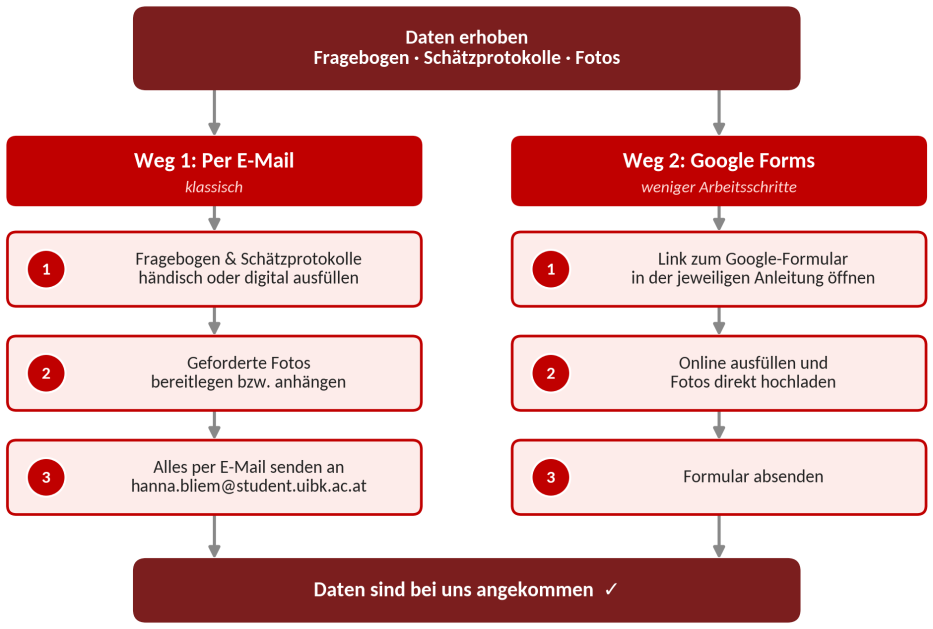
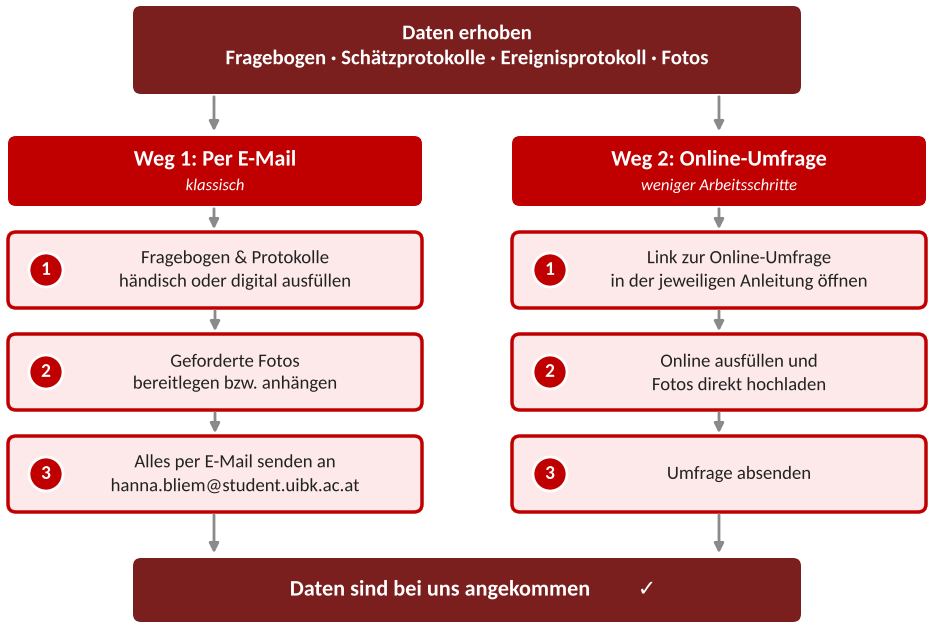
Add files via upload

diff --git a/formulare.html b/formulare.html
@@ -11,7 +11,7 @@
 <header class="top"><div class="bar"><a class="home" href="index.html">⌂ Übersicht</a><span class="t">Formulare</span></div>
 <nav class="tabs" aria-label="Seiten"><a href="index.html">⌂</a><a href="allgemein.html">1 Allgemein</a><a href="fragebogen.html">2 Fragebogen</a><a href="sensoren.html">3 Sensoren</a><a href="populationsgroesse.html">4 Population</a><a href="formulare.html" class="on" aria-current="page">📝 Formulare</a></nav></header>
 <main>
-<h1>Formulare &amp; Links</h1><p class="sub">Alles an einem Ort: zum Ausfüllen online oder zum Ausdrucken</p><p>Hier finden Sie alle Formulare des Versuchs gesammelt. Sie können sie direkt online über Google Forms ausfüllen oder als PDF ausdrucken und per E-Mail an <a href="mailto:hanna.bliem@student.uibk.ac.at">hanna.bliem@student.uibk.ac.at</a> senden.</p><div class="box"><strong>Wichtig</strong>Ihren <b>Teilnehmercode</b> (drei Großbuchstaben, aus den Anfangsbuchstaben Ihres Standorts) brauchen Sie bei jedem Formular. Bitte halten Sie ihn bereit.</div><nav class="toc"><strong>Inhalt dieses Dokuments</strong><ol><li><a href="#forms">Formulare in der Reihenfolge des Versuchs</a></li><li><a href="#apps">GPS-App</a></li><li><a href="#kontakt">Kontakt</a></li></ol></nav><h2 id="forms">Formulare in der Reihenfolge des Versuchs</h2><section class="fcard g"><span class="when">Vor dem Einwintern</span><h3>Fragebogen zum Projektstart</h3><p>Themenblöcke Bewirtschaftung, Überwinterung und Standort. Das Ausfüllen dauert rund 30 Minuten. Bitte vorher die GPS-App nutzen und den Screenshot bereithalten.</p><p><a class="btn" href="https://umfrage.uibk.ac.at/limesurvey/allgemein/365494?lang=de" target="_blank" rel="noopener">Online ausfüllen</a></p><p><a class="dl" href="downloads/Fragebogen.pdf">⬇ PDF zum Ausdrucken</a></p><p class="more"><a href="fragebogen.html#start">Anleitung zum Fragebogen →</a></p></section><section class="fcard a"><span class="when">Beim Einwintern, im Winter (Januar / Februar) und beim Auswintern</span><h3>Schätzprotokoll Populationsgröße</h3><p>Für die Liebefelder Schätzmethode (Achtel pro Wabenseite). Die Fotos der Frame-Top-Clusterzählung können Sie im Google-Formular direkt hochladen.</p><p><a class="btn" href="https://forms.gle/62JAq6ywwJx73rkz9" target="_blank" rel="noopener">Online ausfüllen (Google Forms)</a></p><p><a class="dl" href="downloads/Schaetzprotokoll_Wabenseiten.pdf">⬇ PDF zum Ausdrucken</a></p><p class="more"><a href="populationsgroesse.html#zeit">Anleitung Populationsgröße schätzen →</a></p></section><section class="fcard g"><span class="when">Während des Winters, bei jedem Eingriff</span><h3>Ereignisprotokoll</h3><p>Eingriffe und besondere Ereignisse eintragen, z. B. Kontrolle, Varroabehandlung, Fütterung oder ein verstorbenes Volk. Auch kleine Eingriffe bitte eintragen, für beide Beuten.</p><p><a class="btn" href="https://forms.gle/uDWkMCHtLCLm7BEV8" target="_blank" rel="noopener">Online ausfüllen (Google Forms)</a></p><p><a class="dl" href="downloads/Ereignisprotokoll.pdf">⬇ PDF zum Ausdrucken</a></p><p class="more"><a href="fragebogen.html#ereignis">Anleitung zum Ereignisprotokoll →</a></p></section><section class="fcard g"><span class="when">Nach Projektende</span><h3>Evaluationsfragebogen</h3><p>Ihr Feedback zum Versuch: Ablauf, Verständlichkeit der Anleitungen, Aufwand und weitere Teilnahme.</p><p><a class="btn" href="https://forms.gle/bRKPK3yJ1myFSESB8" target="_blank" rel="noopener">Online ausfüllen (Google Forms)</a></p><p><span class="nopdf">PDF zum Ausdrucken: siehe Ordner <em>Formular</em></span></p><p class="more"><a href="fragebogen.html#evaluation">Anleitung zum Evaluationsfragebogen →</a></p></section><h2 id="apps">GPS-App für den Standort</h2>
+<h1>Formulare &amp; Links</h1><p class="sub">Alles an einem Ort: zum Ausfüllen online oder zum Ausdrucken</p><p>Hier finden Sie alle Formulare des Versuchs gesammelt. Sie können sie direkt online ausfüllen oder als PDF ausdrucken und per E-Mail an <a href="mailto:hanna.bliem@student.uibk.ac.at">hanna.bliem@student.uibk.ac.at</a> senden.</p><div class="box"><strong>Wichtig</strong>Ihren <b>Teilnehmercode</b> (drei Großbuchstaben, aus den Anfangsbuchstaben Ihres Standorts) brauchen Sie bei jedem Formular. Bitte halten Sie ihn bereit.</div><nav class="toc"><strong>Inhalt dieses Dokuments</strong><ol><li><a href="#forms">Formulare in der Reihenfolge des Versuchs</a></li><li><a href="#apps">GPS-App</a></li><li><a href="#kontakt">Kontakt</a></li></ol></nav><h2 id="forms">Formulare in der Reihenfolge des Versuchs</h2><section class="fcard g"><span class="when">Vor dem Einwintern</span><h3>Fragebogen zum Projektstart</h3><p>Themenblöcke Bewirtschaftung, Überwinterung und Standort. Das Ausfüllen dauert rund 30 Minuten. Bitte vorher die GPS-App nutzen und den Screenshot bereithalten.</p><p><a class="btn" href="https://umfrage.uibk.ac.at/limesurvey/allgemein/365494?lang=de" target="_blank" rel="noopener">Online ausfüllen</a></p><p><a class="dl" href="downloads/Fragebogen.pdf">⬇ PDF zum Ausdrucken</a></p><p class="more"><a href="fragebogen.html#start">Anleitung zum Fragebogen →</a></p></section><section class="fcard a"><span class="when">Beim Einwintern, im Winter (Januar / Februar) und beim Auswintern</span><h3>Schätzprotokoll Populationsgröße</h3><p>Für die Liebefelder Schätzmethode (Achtel pro Wabenseite). Die Fotos der Frame-Top-Clusterzählung können Sie in der Online-Umfrage direkt hochladen.</p><p><a class="btn" href="https://umfrage.uibk.ac.at/limesurvey/allgemein/776319?lang=de" target="_blank" rel="noopener">Online ausfüllen</a></p><p><a class="dl" href="downloads/Schaetzprotokoll_Wabenseiten.pdf">⬇ PDF zum Ausdrucken</a></p><p class="more"><a href="populationsgroesse.html#zeit">Anleitung Populationsgröße schätzen →</a></p></section><section class="fcard g"><span class="when">Während des Winters, bei jedem Eingriff</span><h3>Ereignisprotokoll</h3><p>Eingriffe und besondere Ereignisse eintragen, z. B. Kontrolle, Varroabehandlung, Fütterung oder ein verstorbenes Volk. Auch kleine Eingriffe bitte eintragen, für beide Beuten.</p><p><a class="btn" href="https://umfrage.uibk.ac.at/limesurvey/allgemein/634938?lang=de" target="_blank" rel="noopener">Online ausfüllen</a></p><p><a class="dl" href="downloads/Ereignisprotokoll.pdf">⬇ PDF zum Ausdrucken</a></p><p class="more"><a href="fragebogen.html#ereignis">Anleitung zum Ereignisprotokoll →</a></p></section><section class="fcard g"><span class="when">Nach Projektende</span><h3>Evaluationsfragebogen</h3><p>Ihr Feedback zum Versuch: Ablauf, Verständlichkeit der Anleitungen, Aufwand und weitere Teilnahme.</p><p><a class="btn" href="https://forms.gle/bRKPK3yJ1myFSESB8" target="_blank" rel="noopener">Online ausfüllen</a></p><p><span class="nopdf">PDF zum Ausdrucken: siehe Ordner <em>Formular</em></span></p><p class="more"><a href="fragebogen.html#evaluation">Anleitung zum Evaluationsfragebogen →</a></p></section><h2 id="apps">GPS-App für den Standort</h2>
 <p>Für den Fragebogen zum Projektstart erfassen Sie den Standort Ihres Bienenstands mit einer kostenlosen GPS-App. Die Schritte stehen in der <a href="fragebogen.html#gps">Anleitung Fragebogen, Kapitel 2</a>.</p>
 <p><a class="dl" href="https://play.google.com/store/apps/details?id=com.freemium.android.apps.gps.coordinates&amp;hl=de_AT" rel="noopener">Android: App im Play Store</a> <a class="dl" href="https://apps.apple.com/at/app/gps-koordinaten-standort/id1581966514" rel="noopener">iPhone: App im App Store</a></p>
 <h2 id="kontakt">Kontakt</h2><div class="box"><strong>Bei Fragen wenden Sie sich gerne an:</strong>Hanna Bliem<br><a href="mailto:hanna.bliem@student.uibk.ac.at">hanna.bliem@student.uibk.ac.at</a></div>

diff --git a/fragebogen.html b/fragebogen.html
@@ -19,9 +19,7 @@
 <h3>Wo finde ich den Fragebogen?</h3>
 <ul><li><strong>Online-Fragebogen:</strong> Hier kommen Sie zum Fragebogen: <a class="btn" href="https://umfrage.uibk.ac.at/limesurvey/allgemein/365494?lang=de" target="_blank" rel="noopener">Fragebogen öffnen</a></li>
 <li><strong>Ausdrucken bzw. händisch ausfüllen:</strong> Wenn Sie diese Methode bevorzugen, laden Sie den Fragebogen hier herunter: <a class="dl" href="downloads/Fragebogen.pdf">⬇ Fragebogen (PDF)</a></li></ul>
-<div class="embed"><button class="btn" id="openEmbed" type="button" data-src="https://umfrage.uibk.ac.at/limesurvey/allgemein/365494?lang=de">Fragebogen direkt hier auf der Seite ausfüllen</button>
-<div id="embedBox" hidden><iframe title="Fragebogen zum Projektstart" allow="geolocation"></iframe>
-<p class="hint">Wird nichts angezeigt oder lässt sich der Fragebogen am Handy schlecht bedienen? <a href="https://umfrage.uibk.ac.at/limesurvey/allgemein/365494?lang=de" target="_blank" rel="noopener">Fragebogen in einem neuen Tab öffnen</a>.</p></div></div>
+<div class="embed"><button class="btn eb" type="button" data-src="https://umfrage.uibk.ac.at/limesurvey/allgemein/365494?lang=de" data-open="Fragebogen direkt hier auf der Seite ausfüllen" data-close="Fragebogen ausblenden">Fragebogen direkt hier auf der Seite ausfüllen</button><div class="embox" hidden><iframe title="Fragebogen zum Projektstart" allow="geolocation"></iframe><p class="hint">Wird nichts angezeigt oder lässt sich die Umfrage am Handy schlecht bedienen? <a href="https://umfrage.uibk.ac.at/limesurvey/allgemein/365494?lang=de" target="_blank" rel="noopener">Fragebogen in einem neuen Tab öffnen</a>.</p></div></div>
 <h2 id="gps">2. Installation und Anwendung der GPS-App</h2>
 <p>Mit einer kostenlosen GPS-App erfassen Sie den genauen Standort Ihres Bienenstands. Das dauert nur wenige Minuten. Die Schritte sind für Android-Handys und iPhones gleich, nur Installation und Standortfreigabe unterscheiden sich.</p>
 <h3>Android-Handy</h3>
@@ -39,18 +37,19 @@
 <div class="box"><strong>Tipp</strong>Bleiben Sie mit freier Sicht zum Himmel stehen und warten Sie in Ruhe, bis die Genauigkeit 5 m oder weniger anzeigt. Erst dann den Screenshot aufnehmen.</div>
 <h2 id="ereignis">3. Ereignisprotokoll</h2>
 <p>Während des laufenden Projekts müssen alle Eingriffe und größeren Ereignisse dokumentiert werden. Solche Ereignisse können die Temperatur- und Feuchteverläufe beeinflussen und helfen uns, die Daten richtig zu deuten.</p>
-<ol class="steps three"><li><h4>Wann</h4><p>Immer wenn Sie in ein Volk eingreifen oder etwas Besonderes passiert, möglichst zeitnah.</p></li><li><h4>Was eintragen</h4><p>Datum, Teilnehmercode, Beute und Art des Ereignisses, z. B. Varroabehandlung, Öffnen der Beute oder ein verstorbenes Volk.</p></li><li><h4>Übermitteln</h4><p>Per Google Forms absenden oder das Protokoll ausfüllen und per E-Mail schicken.</p></li></ol>
+<ol class="steps three"><li><h4>Wann</h4><p>Immer wenn Sie in ein Volk eingreifen oder etwas Besonderes passiert, möglichst zeitnah.</p></li><li><h4>Was eintragen</h4><p>Datum, Teilnehmercode, Beute und Art des Ereignisses, z. B. Varroabehandlung, Öffnen der Beute oder ein verstorbenes Volk.</p></li><li><h4>Übermitteln</h4><p>Online absenden oder das Protokoll ausfüllen und per E-Mail schicken.</p></li></ol>
 <div class="box"><strong>Wichtig!</strong>Bitte tragen Sie auch kleine Eingriffe ein. Bei beiden Beuten (isoliert und konventionell) gilt dieselbe Dokumentation.</div>
 <h3>Wo finde ich das Ereignisprotokoll?</h3>
-<ul><li><strong>Google Forms:</strong> Hier kommen Sie zum Ereignisprotokoll: <a class="btn" href="https://forms.gle/uDWkMCHtLCLm7BEV8" rel="noopener">Ereignisprotokoll öffnen</a></li>
+<ul><li><strong>Online-Umfrage:</strong> Hier kommen Sie zum Ereignisprotokoll: <a class="btn" href="https://umfrage.uibk.ac.at/limesurvey/allgemein/634938?lang=de" target="_blank" rel="noopener">Ereignisprotokoll öffnen</a></li>
 <li><strong>Ausdrucken bzw. händisch ausfüllen:</strong> Wenn Sie diese Methode bevorzugen, laden Sie das Ereignisprotokoll hier herunter: <a class="dl" href="downloads/Ereignisprotokoll.pdf">⬇ Ereignisprotokoll (PDF)</a> Senden Sie es anschließend per E-Mail an <a href="mailto:hanna.bliem@student.uibk.ac.at">hanna.bliem@student.uibk.ac.at</a>.</li></ul>
+<div class="embed"><button class="btn eb" type="button" data-src="https://umfrage.uibk.ac.at/limesurvey/allgemein/634938?lang=de" data-open="Ereignisprotokoll direkt hier auf der Seite ausfüllen" data-close="Ereignisprotokoll ausblenden">Ereignisprotokoll direkt hier auf der Seite ausfüllen</button><div class="embox" hidden><iframe title="Ereignisprotokoll" allow="geolocation"></iframe><p class="hint">Wird nichts angezeigt oder lässt sich die Umfrage am Handy schlecht bedienen? <a href="https://umfrage.uibk.ac.at/limesurvey/allgemein/634938?lang=de" target="_blank" rel="noopener">Ereignisprotokoll in einem neuen Tab öffnen</a>.</p></div></div>
 <h2 id="evaluation">4. Evaluationsfragebogen zum Projektende</h2>
 <p>Am Ende des Projekts bitten wir Sie um Ihr Feedback: Wie haben Sie den Versuch erlebt, und wie verständlich waren die Unterlagen? So können wir das nächste Projekt verbessern und Ihre Erfahrung einbeziehen.</p>
-<ol class="steps three"><li><h4>Zeitpunkt</h4><p>Nach dem Auswintern und der Rücksendung der Sensoren.</p></li><li><h4>Fragebogen</h4><p>Fragen zu Ablauf, Verständlichkeit der Anleitungen, Aufwand und zu Ihrer weiteren Teilnahme beantworten.</p></li><li><h4>Übermitteln</h4><p>Per Google Forms absenden oder per E-Mail schicken.</p></li></ol>
+<ol class="steps three"><li><h4>Zeitpunkt</h4><p>Nach dem Auswintern und der Rücksendung der Sensoren.</p></li><li><h4>Fragebogen</h4><p>Fragen zu Ablauf, Verständlichkeit der Anleitungen, Aufwand und zu Ihrer weiteren Teilnahme beantworten.</p></li><li><h4>Übermitteln</h4><p>Online absenden oder per E-Mail schicken.</p></li></ol>
 <p>Der Evaluationsfragebogen funktioniert genauso wie der Fragebogen zum Projektstart. Das Ausfüllen dauert rund xx Minuten.</p>
 <div class="box"><strong>Ihre Meinung zählt</strong>Es gibt keine richtigen oder falschen Antworten. Auch Kritik und Verbesserungsvorschläge helfen uns sehr weiter.</div>
 <h3>Wo finde ich den Evaluationsfragebogen?</h3>
-<ul><li><strong>Google Forms:</strong> Hier kommen Sie zum Evaluationsfragebogen: <a class="btn" href="https://forms.gle/bRKPK3yJ1myFSESB8" rel="noopener">Evaluationsfragebogen öffnen</a></li>
+<ul><li><strong>Online-Fragebogen:</strong> Hier kommen Sie zum Evaluationsfragebogen: <a class="btn" href="https://forms.gle/bRKPK3yJ1myFSESB8" target="_blank" rel="noopener">Evaluationsfragebogen öffnen</a></li>
 <li><strong>Ausdrucken bzw. händisch ausfüllen:</strong> Wenn Sie diese Methode bevorzugen, finden Sie den Evaluationsfragebogen im Ordner <em>Formular</em>.</li></ul>
 <p style="text-align:center"><strong style="color:var(--accent)">Vielen Dank für Ihre Mithilfe!</strong></p>
 <div class="pager"><a class="sec" href="allgemein.html">← Allgemeine Übersicht</a><a href="sensoren.html">Sensoren & Abdeckfolie →</a></div>

diff --git a/populationsgroesse.html b/populationsgroesse.html
@@ -18,10 +18,11 @@
 <h3>Datenübermittlung</h3>
 <p>Die erhobenen Daten können Sie uns auf zwei Wegen übermitteln:</p>
 <ul><li>Händisch in das Formular „Schätzprotokoll“ (<a href="downloads/Schaetzprotokoll_Wabenseiten.pdf">PDF zum Ausdrucken</a>) und anschließend per E-Mail an <a href="mailto:hanna.bliem@student.uibk.ac.at">hanna.bliem@student.uibk.ac.at</a></li>
-<li>über das Google-Formular (wie beim Fragebogen): <a class="btn" href="https://forms.gle/62JAq6ywwJx73rkz9" rel="noopener">Google-Formular öffnen</a></li></ul><h2 id="vorb">2. Vorbereitung</h2>
+<li>über die Online-Umfrage (wie beim Fragebogen): <a class="btn" href="https://umfrage.uibk.ac.at/limesurvey/allgemein/776319?lang=de" target="_blank" rel="noopener">Online-Umfrage öffnen</a></li></ul>
+<div class="embed"><button class="btn eb" type="button" data-src="https://umfrage.uibk.ac.at/limesurvey/allgemein/776319?lang=de" data-open="Schätzprotokoll direkt hier auf der Seite ausfüllen" data-close="Schätzprotokoll ausblenden">Schätzprotokoll direkt hier auf der Seite ausfüllen</button><div class="embox" hidden><iframe title="Schätzprotokoll Populationsgröße" allow="geolocation"></iframe><p class="hint">Wird nichts angezeigt oder lässt sich die Umfrage am Handy schlecht bedienen? <a href="https://umfrage.uibk.ac.at/limesurvey/allgemein/776319?lang=de" target="_blank" rel="noopener">Schätzprotokoll in einem neuen Tab öffnen</a>.</p></div></div><h2 id="vorb">2. Vorbereitung</h2>
 <h3>Liebefelder Schätzmethode</h3>
 <p><strong>Material zusammenstellen:</strong></p>
-<ul><li>Leeres Rähmchen im verwendeten Wabenmaß</li><li>Vier Gummibänder oder Schnüre</li><li>Schätzprotokoll (liegt in den Anlagen bei oder steht im Google-Formular zur Verfügung, Link siehe <a href="#zeit">Kapitel 1</a>). <a href="downloads/Schaetzprotokoll_Wabenseiten.pdf">Schätzprotokoll als PDF</a></li><li>Für den Magazinablauf: zwei Leerzargen (im Herbst: die mit Sensoren präparierten Zargen!), passender Deckel, Trennfolien</li></ul>
+<ul><li>Leeres Rähmchen im verwendeten Wabenmaß</li><li>Vier Gummibänder oder Schnüre</li><li>Schätzprotokoll (liegt in den Anlagen bei oder steht in der Online-Umfrage zur Verfügung, Link siehe <a href="#zeit">Kapitel 1</a>). <a href="downloads/Schaetzprotokoll_Wabenseiten.pdf">Schätzprotokoll als PDF</a></li><li>Für den Magazinablauf: zwei Leerzargen (im Herbst: die mit Sensoren präparierten Zargen!), passender Deckel, Trennfolien</li></ul>
 <p><strong>Schätzrahmen bauen</strong></p>
 <ol class="steps">
 <li><h4>Rähmchen teilen</h4><p>Rähmchen in acht gleich große Felder teilen: Ein Band halbiert die Höhe, drei weitere Bänder vierteln die Breite (siehe Abbildung).</p><figure class="imgbg "><img src="img/schaetzrahmen-1.png" alt="Rähmchen mit einem horizontalen und drei vertikalen Bändern, acht Felder" ></figure></li>
@@ -39,7 +40,7 @@
 <ol class="steps">
 <li><h4>Maßband und Münze</h4><p>Deckel der Beute öffnen und Maßband/Meterstab an die obere Kante legen. Bei isolierten Bienenbeuten zusätzlich die Münze an die Kante legen (so lassen sich die beiden Beutentypen unterscheiden).</p><figure class="imgbg "><img src="img/cluster-1.png" alt="Beute von oben mit Maßband an der Kante und Münze" ></figure></li>
 <li><h4>Foto aus 80 cm</h4><p>Kamera 80 cm über die Beute halten (bitte genau ausmessen). Darauf achten, dass Kamera/Smartphone möglichst gerade ist und die Wasserwaage der Kamera-App richtig ausgerichtet ist.</p><figure class="imgbg "><img src="img/cluster-2.png" alt="Kamera 80 cm über der Beute" ></figure></li>
-<li><h4>Kontrollieren und senden</h4><p>Kontrollieren, ob das Foto gelungen ist, und anschließend per E-Mail absenden oder im Google-Formular hochladen.</p><figure class="imgbg "><img src="img/cluster-3.png" alt="Smartphone mit Senden-Symbol" ></figure></li></ol>
+<li><h4>Kontrollieren und senden</h4><p>Kontrollieren, ob das Foto gelungen ist, und anschließend per E-Mail absenden oder in der Online-Umfrage hochladen.</p><figure class="imgbg "><img src="img/cluster-3.png" alt="Smartphone mit Senden-Symbol" ></figure></li></ol>
 <h3>Liebefelder Schätzmethode</h3>
 <p><strong>Grundsätzliche Erklärung:</strong> Mithilfe des vorher angefertigten Schätzrahmens wird bestimmt, wie viele Bienen auf einer Wabe sitzen. Dabei wird der Schätzrahmen über die Wabe gehalten und notiert, wie viele der Achtel vollständig durch Bienen besetzt sind. Es wird also nicht die tatsächliche Anzahl der Bienen geschätzt, sondern die Anzahl der vollbesetzten Felder.</p>
 <div class="box"><strong>Tipps zum Schätzen</strong><ul><li>Stellen Sie sich locker verteilte Bienen dicht nebeneinander vor und notieren Sie, wie viele Achtel sie dann füllen würden. Zählen Sie nicht einfach jedes Feld, in dem irgendeine Biene sitzt. Beispiele dazu: siehe <a href="#bsp">Kapitel 4</a>.</li><li>Auch halbe Felder sind erlaubt und werden zusammengerechnet.</li><li>Mehrere Schichten: Fläche und Schichtzahl getrennt schätzen (z. B. 2 Achtel × 3 Schichten = 6 Achtel). Diese Korrektur gilt nur für die jeweilige Gruppe.</li></ul></div>

diff --git a/allgemein.html b/allgemein.html
@@ -32,7 +32,7 @@
 <h2 id="daten">3. Datenübermittlung</h2>
 <p>Sie können selbst wählen, auf welchem Weg Sie uns die Daten übermitteln:</p>
 <ul><li><strong>Per E-Mail:</strong> Sie füllen den Fragebogen und die Schätzprotokolle händisch oder digital aus und senden sie uns zusammen mit den geforderten Fotos per E-Mail an <a href="mailto:hanna.bliem@student.uibk.ac.at">hanna.bliem@student.uibk.ac.at</a>.</li>
-<li><strong>Online:</strong> Fragebogen und Schätzprotokolle können Sie direkt online ausfüllen. Die passenden Formulare sind in den jeweiligen Anleitungen verlinkt, auch die Fotos lassen sich dort direkt hochladen. So möchten wir Ihnen einige Arbeitsschritte ersparen. <a href="formulare.html">Alle Formular-Links finden Sie gesammelt im Reiter „Formulare“.</a></li></ul><figure class="imgbg "><img src="img/datenwege.png" alt="Die zwei Wege der Datenübermittlung: per E-Mail oder über Google Forms"  class="zoom" data-full="img/datenwege.png"><figcaption>Abbildung 2: Die zwei Wege der Datenübermittlung</figcaption></figure><div class="box"><strong>Wichtiger Hinweis!</strong>Von uns erhalten Sie einen Teilnehmercode, der aus drei Großbuchstaben besteht und sich aus den Anfangsbuchstaben Ihres Standorts zusammensetzt. Bitte bewahren Sie diesen Code gut auf und geben Sie ihn immer an, wenn danach gefragt wird, beispielsweise beim Ausfüllen des Fragebogens oder des Schätzprotokolls.</div>
+<li><strong>Online:</strong> Fragebogen und Schätzprotokolle können Sie direkt online ausfüllen. Die passenden Formulare sind in den jeweiligen Anleitungen verlinkt, auch die Fotos lassen sich dort direkt hochladen. So möchten wir Ihnen einige Arbeitsschritte ersparen. <a href="formulare.html">Alle Formular-Links finden Sie gesammelt im Reiter „Formulare“.</a></li></ul><figure class="imgbg "><img src="img/datenwege.png" alt="Die zwei Wege der Datenübermittlung: per E-Mail oder über die Online-Umfrage"  class="zoom" data-full="img/datenwege.png"><figcaption>Abbildung 2: Die zwei Wege der Datenübermittlung</figcaption></figure><div class="box"><strong>Wichtiger Hinweis!</strong>Von uns erhalten Sie einen Teilnehmercode, der aus drei Großbuchstaben besteht und sich aus den Anfangsbuchstaben Ihres Standorts zusammensetzt. Bitte bewahren Sie diesen Code gut auf und geben Sie ihn immer an, wenn danach gefragt wird, beispielsweise beim Ausfüllen des Fragebogens oder des Schätzprotokolls.</div>
 <h2 id="material">4. Material</h2>
 <p>Hier nochmals eine Checkliste der Materialien, die wir Ihnen zur Verfügung stellen, sowie der Dinge, die Sie selbst bereithalten:</p>
 <div class="two"><div class="col"><h3>Von uns zur Verfügung gestellt</h3><ul><li>Isolierte Testzarge</li><li>8 Sensoren</li><li>Klebeband für die Anbringung der Sensoren</li><li>Schutzhütte für die Sensoren im Außenbereich</li><li>Kreislibelle</li><li>2 Abdeckfolien (1 pro Beute)</li></ul></div>

diff --git a/sw.js b/sw.js
@@ -1,4 +1,4 @@
-const CACHE='imker-v4';
+const CACHE='imker-v5';
 const FILES=["./", "index.html", "manifest.webmanifest", "assets/style.css", "assets/app.js", "assets/icon-192.png", "assets/icon-512.png", "allgemein.html", "fragebogen.html", "sensoren.html", "populationsgroesse.html", "formulare.html", "img/ablauf-1.png", "img/ablauf-2.png", "img/ablauf-3.png", "img/ablauf-4.png", "img/ablauf-5.png", "img/beispiel-1a.jpg", "img/beispiel-2a.jpg", "img/beispiel-3a.jpg", "img/beispiel-6a.jpg", "img/cluster-1.png", "img/cluster-2.png", "img/cluster-3.png", "img/datenwege.png", "img/folie-1.jpg", "img/folie-2.jpg", "img/folie-3.jpg", "img/folie-4.jpg", "img/gps-screenshot.png", "img/kreislibelle.png", "img/schaetzrahmen-1.png", "img/schaetzrahmen-2.png", "img/sens-befestigung.png", "img/sens-d.jpg", "img/sens-positionen.png", "img/sensor-doku.png", "img/sensor-start.png", "img/sensor-stop.png", "img/vogelhaus-1.png", "img/vogelhaus-2.png", "img/vogelhaus-3.png", "img/vogelhaus-4.jpg", "img/zeitplan.png", "downloads/1_Anleitung_Allgemein.pdf", "downloads/2_Anleitung_Fragebogen.pdf", "downloads/3_Anleitung_Sensoren.pdf", "downloads/4_Anleitung_Populationsgroesse_schaetzen.pdf", "downloads/Ereignisprotokoll.pdf", "downloads/Fragebogen.pdf", "downloads/Schaetzprotokoll_Wabenseiten.pdf"];
 self.addEventListener('install',e=>{e.waitUntil(caches.open(CACHE).then(c=>Promise.all(FILES.map(f=>c.add(f).catch(()=>{})))).then(()=>self.skipWaiting()))});
 self.addEventListener('activate',e=>{e.waitUntil(caches.keys().then(k=>Promise.all(k.filter(x=>x!==CACHE).map(x=>caches.delete(x)))).then(()=>self.clients.claim()))});

diff --git a/index.html b/index.html
@@ -13,7 +13,7 @@
 <a class="hero g" href="fragebogen.html"><span class="no">Vor dem Einwintern</span><h2>2 · Fragebogen</h2><p>Fragebogen, GPS-App und Evaluation am Ende</p></a>
 <a class="hero b" href="sensoren.html"><span class="no">Vor dem Einwintern</span><h2>3 · Sensoren &amp; Abdeckfolie</h2><p>Sensoren einbauen, starten, ausschalten; Folie einlegen</p></a>
 <a class="hero a" href="populationsgroesse.html"><span class="no">Einwintern, Winter, Auswintern</span><h2>4 · Populationsgröße schätzen</h2><p>Liebefelder Schätzmethode und Frame-Top-Clusterzählung</p></a>
-<a class="hero p" href="formulare.html"><span class="no">Zum Ausfüllen</span><h2>📝 Formulare &amp; Links</h2><p>Alle Google-Forms-Links und PDF-Formulare auf einen Blick</p></a>
+<a class="hero p" href="formulare.html"><span class="no">Zum Ausfüllen</span><h2>📝 Formulare &amp; Links</h2><p>Alle Online-Umfragen und PDF-Formulare auf einen Blick</p></a>
 </div>
 <h2 id="downloads">Downloads</h2>
 <p>Formulare zum Ausdrucken:</p><p><a class="dl" href="downloads/Fragebogen.pdf">⬇ Fragebogen (zum Ausdrucken)</a><a class="dl" href="downloads/Ereignisprotokoll.pdf">⬇ Ereignisprotokoll</a><a class="dl" href="downloads/Schaetzprotokoll_Wabenseiten.pdf">⬇ Schätzprotokoll Wabenseiten</a></p>

diff --git a/assets/app.js b/assets/app.js
@@ -12,4 +12,4 @@
   if('serviceWorker' in navigator){navigator.serviceWorker.register('sw.js').catch(function(){});}
 })();
 document.querySelectorAll('table').forEach(function(t){var h=[].map.call(t.querySelectorAll('thead th'),function(x){return x.textContent});t.querySelectorAll('tbody tr').forEach(function(r){[].forEach.call(r.children,function(c,i){if(h[i]&&i>0)c.setAttribute('data-l',h[i])})})});
-(function(){var b=document.getElementById('openEmbed');if(!b)return;var box=document.getElementById('embedBox'),f=box.querySelector('iframe');b.addEventListener('click',function(){if(box.hidden){if(!f.src)f.src=b.getAttribute('data-src');box.hidden=false;b.textContent='Fragebogen ausblenden'}else{box.hidden=true;b.textContent='Fragebogen direkt hier auf der Seite ausfüllen'}})})();
+document.querySelectorAll('.embed').forEach(function(w){var b=w.querySelector('.eb'),box=w.querySelector('.embox'),f=box.querySelector('iframe');b.addEventListener('click',function(){if(box.hidden){if(!f.src)f.src=b.getAttribute('data-src');box.hidden=false;b.textContent=b.getAttribute('data-close')}else{box.hidden=true;b.textContent=b.getAttribute('data-open')}})});
